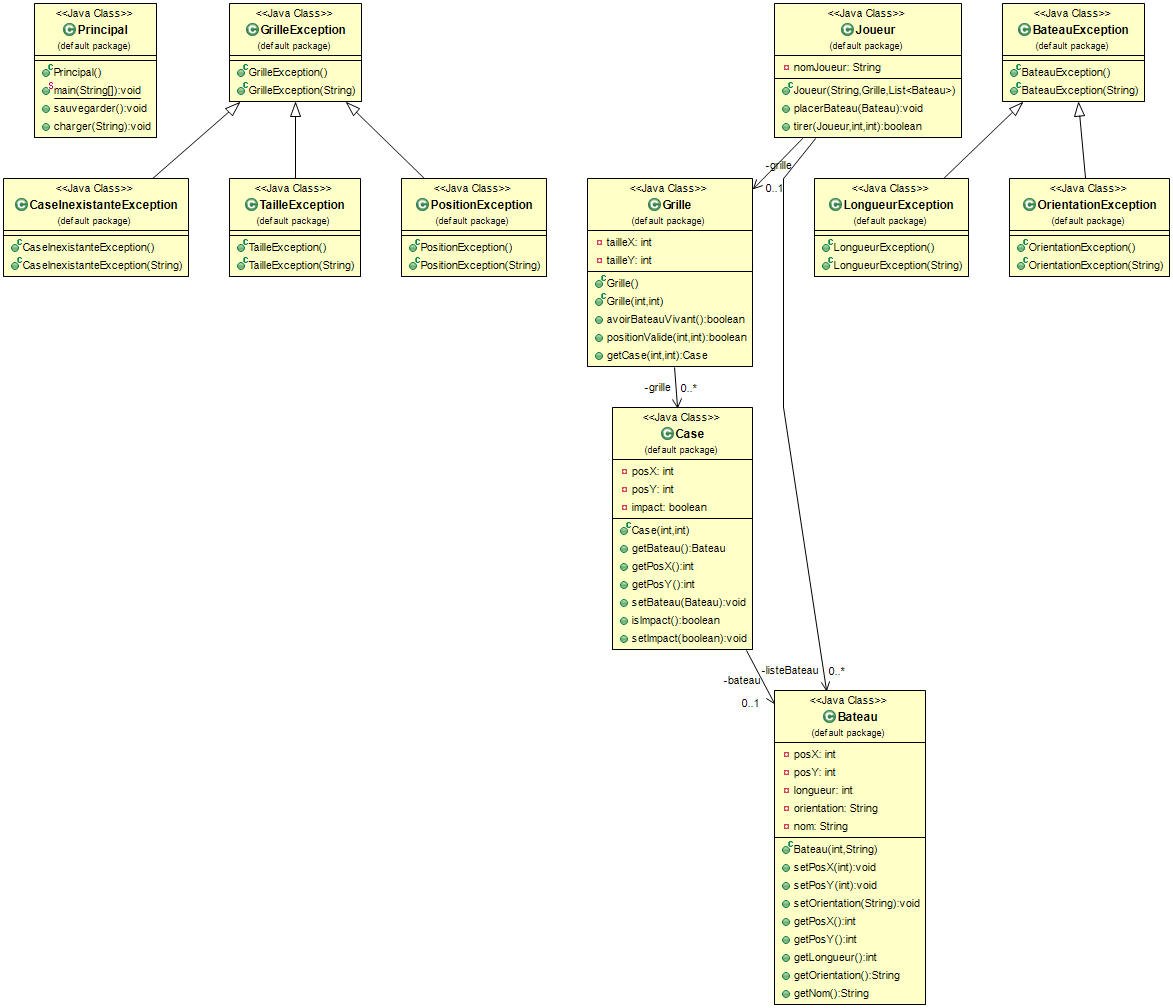
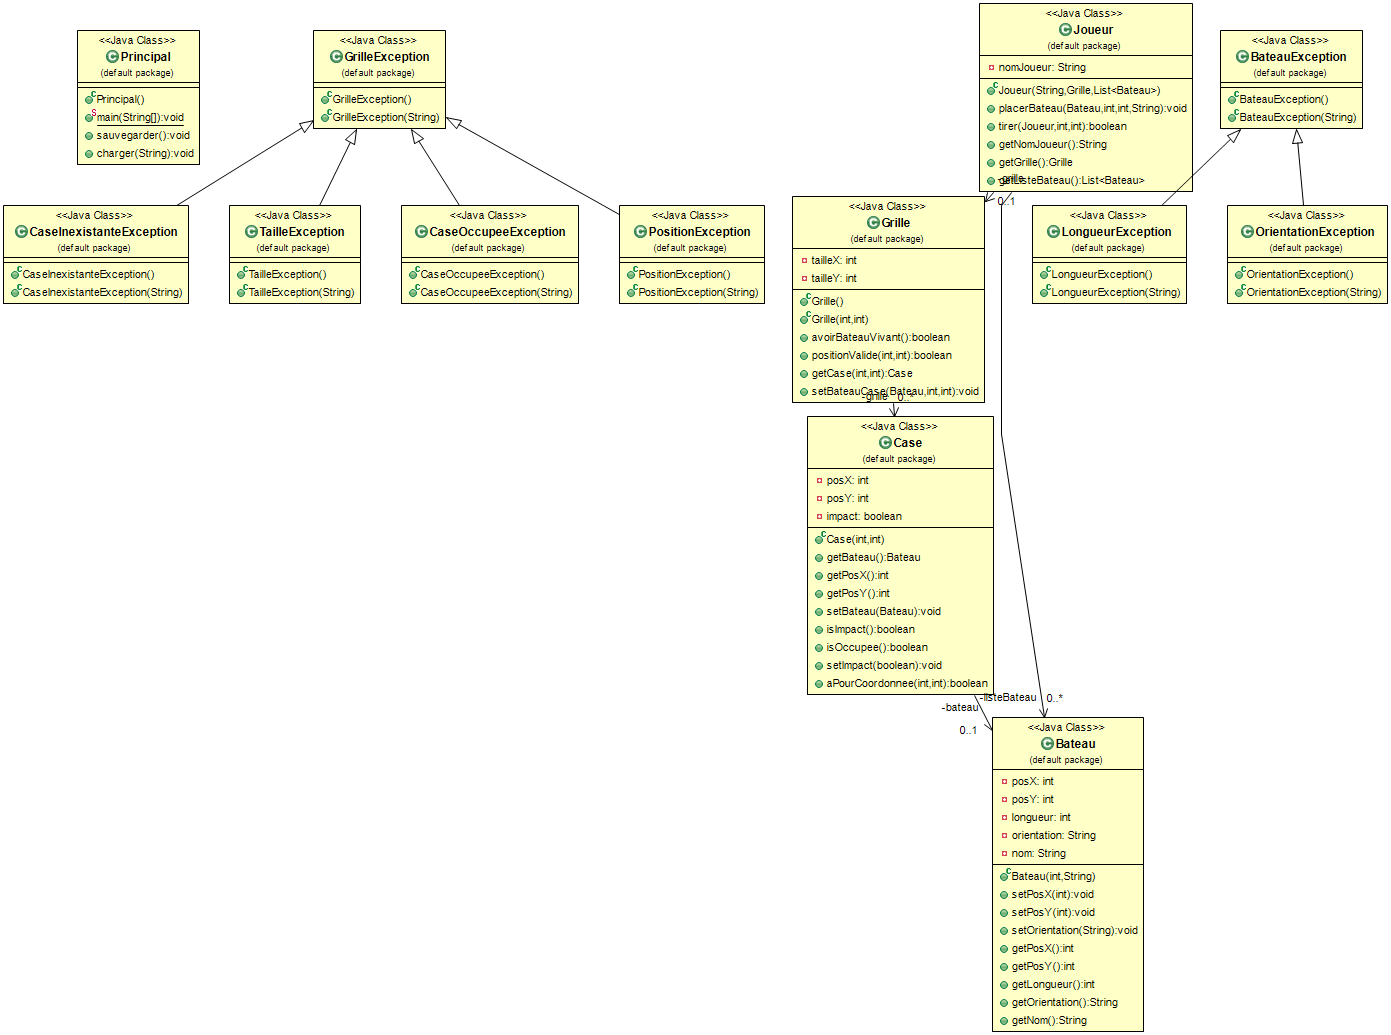
test

Changed region(s): [[0.0, 0.0, 1.0, 1.0]]

diff --git a/Objet2 - Projet Bataille Navale 2/src/CaseOccupeeException.java b/Objet2 - Projet Bataille Navale 2/src/CaseOccupeeException.java
@@ -1,0 +1,27 @@
+/**
+ * 
+ */
+
+/**
+ * @author BERNARD Hugo 'Tenebrosful'
+ *
+ */
+public class CaseOccupeeException extends GrilleException {
+
+	/**
+	 * Constructeur de CaseOccupeeException.java pour 
+	 */
+	public CaseOccupeeException() {
+		// TODO Auto-generated constructor stub
+	}
+
+	/**
+	 * Constructeur de CaseOccupeeException.java pour 
+	 * @param message
+	 */
+	public CaseOccupeeException(String message) {
+		super(message);
+		// TODO Auto-generated constructor stub
+	}
+
+}
